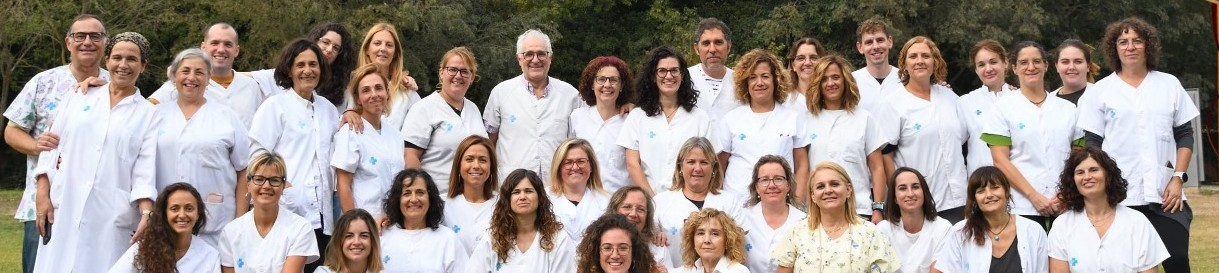
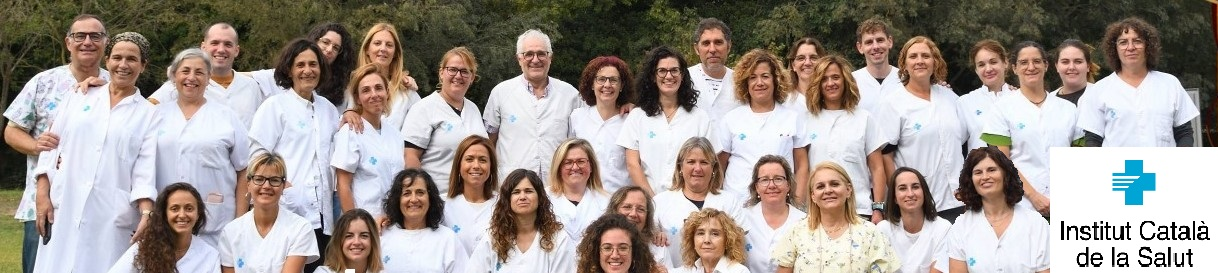
afegir pistes finals i refciticar foro general

diff --git a/index.html b/index.html
@@ -89,7 +89,7 @@
           </p>
         </div>
         <div class="flex items-center gap-3">
-          <button id="audio-toggle-btn" onclick="toggleAudio()" class="absolute bottom-2 right-48 z-20 px-4 py-3 bg-slate-900 hover:bg-slate-800 text-white border-2 border-slate-700 rounded-none flex flex-col items-center justify-center gap-1.5 p-2 transition shadow-xl">
+          <button id="audio-toggle-btn" onclick="toggleAudio()" class="absolute bottom-2 right-24 z-20 px-4 py-3 bg-slate-900 hover:bg-slate-800 text-white border-2 border-slate-700 rounded-none flex flex-col items-center justify-center gap-1.5 p-2 transition shadow-xl">
             <i id="audio-icon" class="fa-solid fa-volume-xmark text-red-400 text-xl"></i> 
             <span id="audio-btn-text" class="text-[10px] text-center leading-tight font-semibold">Música Off</span>
           </button>
@@ -384,7 +384,7 @@
         title: "Dia 15: Qui s'amaga aquí?",
         image: "imatges/paqui.jpeg",
         solution: "Paqui",
-        hint: "Pista del dia 15: Li encanta la natació."
+        hint: "Pista del dia 15: Els animalets sempre li han agradat."
       },
       {
         day: 16,
@@ -448,7 +448,7 @@
         title: "Dia 24: Qui és aquest petit?",
         image: "imatges/marta_mauri.jpeg",
         solution: "Marta Mauri",
-        hint: "Pista del dia 24: Li encanta ballar."
+        hint: "Pista del dia 24: Espai i llum no li'n manquen."
       },
       {
         day: 25,
